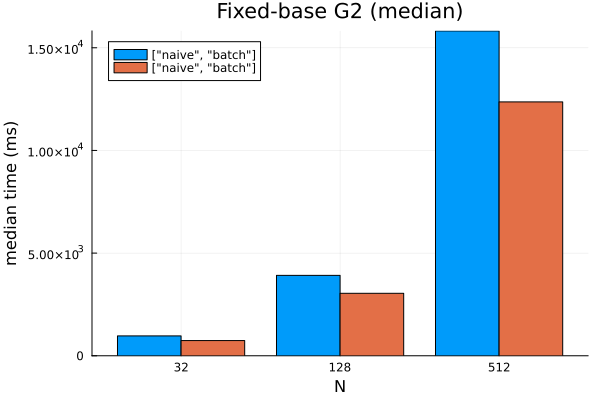
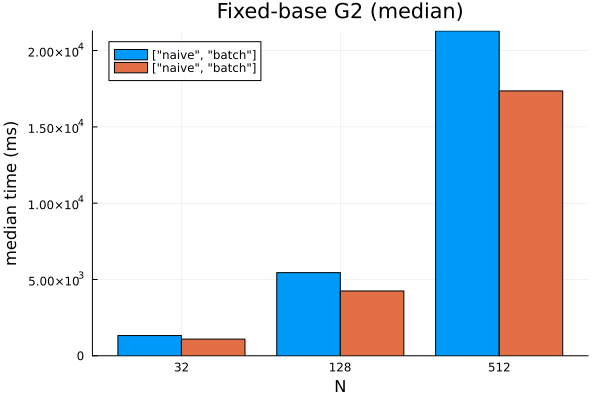
benchmarks: capture baseline results and plots

diff --git a/benchmarks/README.md b/benchmarks/README.md
@@ -2,7 +2,7 @@
 
 This directory contains a self-contained BenchmarkTools environment and two scripts:
 
-- `run.jl` — runs a suite of microbenchmarks and saves a JSON summary
+- `run.jl` — runs a suite of microbenchmarks and end-to-end timings, saving a JSON summary
 - `plot.jl` — reads the latest (or given) JSON and renders comparison plots
 
 ## What’s Measured
@@ -13,18 +13,33 @@ This directory contains a self-contained BenchmarkTools environment and two scri
 - Variable-base MSM (prover hot path)
   - `multi_scalar_mul` (MSM) vs naive accumulation for N bases/scalars
 - Batch normalization
-  - `batch_to_affine!` vs per-point `to_affine` for N points
+  - `batch_to_affine!` vs per-point `to_affine` for N points, with fresh projective inputs per sample
+- Pairing engine
+  - Sequential accumulation of N pairings vs `pairing_batch`
+  - Breakdown of single pairing into `miller_loop` and `final_exponentiation`
+- Groth16 pipeline (sum-of-products example circuit)
+  - `r1cs_to_qap`, `setup_full`, `prove_full`, `verify_full`
+  - Prepared verifier helpers (`prepare_verifying_key`, `prepare_inputs`, `verify_with_prepared`)
 
-Each benchmark runs at sizes N ∈ {32, 128, 512}. Results are printed with min/median/mean and memory, and a JSON with med/min timings is saved to `benchmarks/results_YYYY-mm-dd_HHMMSS.json`.
+Microbenchmarks run at sizes N ∈ {32, 128, 512}. Results are printed with min/median/mean and memory, and a JSON summary is saved to `benchmarks/results_YYYY-mm-dd_HHMMSS.json`. Each JSON entry records:
 
-The plots below (generated by `plot.jl`) compare median timings for each category:
+- `min_pretty` / `median_pretty`: original `TrialEstimate(...)` strings
+- `min_seconds` / `median_seconds`: numeric timings in seconds (for plotting / baselines)
+- `memory_bytes`: peak allocation during the trial
 
-- Fixed-base G1: `fixed_g1.png`
-- Fixed-base G2: `fixed_g2.png`
-- MSM G1: `msm_g1.png`
-- MSM G2: `msm_g2.png`
-- Batch norm G1: `norm_g1.png`
-- Batch norm G2: `norm_g2.png`
+`plot.jl` produces the following visual comparisons (all using median timings):
+
+- Microbenchmarks: `fixed_g1.png`, `fixed_g2.png`, `msm_g1.png`, `msm_g2.png`, `norm_g1.png`, `norm_g2.png`
+- Pairing comparisons: `pairing.png` (sequential vs batch), `pairing_ops.png` (miller loop / final exponent)
+- Groth16 pipeline: `groth16.png`
+
+## Baseline 2025-09-23
+
+- JSON summary: `results_2025-09-23_204214.json`
+- Environment details: `results_2025-09-23_204214_env.md`
+- Host: AMD Ryzen AI 9 HX 370 (24 threads) on Linux 6.16.7-arch1-1, Julia 1.11.7 (default thread count)
+
+### Plots
 
 ![fixed_g1](./fixed_g1.png)
 ![fixed_g2](./fixed_g2.png)
@@ -32,6 +47,52 @@ The plots below (generated by `plot.jl`) compare median timings for each categor
 ![msm_g2](./msm_g2.png)
 ![norm_g1](./norm_g1.png)
 ![norm_g2](./norm_g2.png)
+![pairing](./pairing.png)
+![pairing_ops](./pairing_ops.png)
+![groth16](./groth16.png)
+
+| Benchmark | N | naive median (s) | optimised median (s) |
+| --- | --- | --- | --- |
+| Fixed-base G1 (`scalar_mul` vs `batch_mul`) | 32 | 0.190 | 0.167 |
+|  | 128 | 0.740 | 0.544 |
+|  | 512 | 3.050 | 2.332 |
+| Fixed-base G2 | 32 | 1.325 | 1.094 |
+|  | 128 | 5.451 | 4.247 |
+|  | 512 | 21.292 | 17.357 |
+| Variable-base MSM G1 | 32 | 0.194 | 0.049 |
+|  | 128 | 0.763 | 0.268 |
+|  | 512 | 2.858 | 1.068 |
+| Variable-base MSM G2 | 32 | 1.299 | 0.404 |
+|  | 128 | 5.331 | 1.607 |
+|  | 512 | 20.656 | 6.096 |
+
+| Batch normalisation | N | per-point median (s) | batch median (s) |
+| --- | --- | --- | --- |
+| G1 | 32 | 0.000095 | 0.000106 |
+|  | 128 | 0.000660 | 0.000366 |
+|  | 512 | 0.001741 | 0.001381 |
+| G2 | 32 | 0.000517 | 0.000576 |
+|  | 128 | 0.001956 | 0.002174 |
+|  | 512 | 0.007511 | 0.008093 |
+
+| Pairings | Batch | sequential median (s) | batch median (s) |
+| --- | --- | --- | --- |
+| Accumulate e(P,Q) | 1 | 0.084 | 0.085 |
+|  | 4 | 0.398 | 0.231 |
+|  | 16 | 1.560 | 0.695 |
+| Single pairing | - | 0.083 | - |
+| Miller loop | - | 0.025 | - |
+| Final exponentiation | - | 0.038 | - |
+
+| Groth16 pipeline (sum-of-products circuit) | median (s) |
+| --- | --- |
+| `r1cs_to_qap` | 0.00068 |
+| `setup_full` | 0.185 |
+| `prove_full` | 0.0083 |
+| `verify_full` | 0.453 |
+| `prepare_verifying_key` | 0.086 |
+| `prepare_inputs` | 0.00037 |
+| `verify_with_prepared` | 0.224 |
 
 ## Usage
 
@@ -63,8 +124,7 @@ julia --project=benchmarks benchmarks/plot.jl results_2025-09-10_145900.json
 
 ## Notes
 
-- BenchmarkTools excludes JIT compilation after the first execution. We also run an explicit warmup before timing to avoid first-sample JIT.
+- BenchmarkTools excludes JIT compilation after the first execution. We also run explicit warmups before timing to avoid first-sample JIT.
 - Fixed-base timings are split between table build (one-time cost per base) and `batch_mul` (per vector). In setup we build once and reuse across A/B/C/H/L/IC.
 - Consider fixing `JULIA_NUM_THREADS` when comparing runs; record CPU/machine info for fair comparisons.
-- The suite currently focuses on microbenchmarks. We plan to add end-to-end timings (setup_full/prove_full/verify_full) to track user-visible performance as optimizations roll in.
-
+- JSON now contains numeric fields in seconds for easier downstream processing while keeping the human-readable `TrialEstimate` strings.

diff --git a/benchmarks/results_2025-09-23_204214_env.md b/benchmarks/results_2025-09-23_204214_env.md
@@ -1,0 +1,61 @@
+# Benchmark Environment — results_2025-09-23_204214.json
+
+- Date: 2025-09-23
+- Machine: AMD Ryzen AI 9 HX 370 w/ Radeon 890M (12 cores / 24 threads)
+- OS: Linux 6.16.7-arch1-1 #1 SMP PREEMPT_DYNAMIC Thu, 11 Sep 2025 17:42:36 +0000
+- CPU flags: AVX2, AVX512, FMA, SHA, etc. (see lscpu dump below for full list)
+- Julia: 1.11.7 (reported by `benchmarks/run.jl`)
+- JULIA_NUM_THREADS: (default Julia threads on this system — please note if you set it explicitly)
+- Benchmark project: `Groth.jl/benchmarks` (branch `feat/dispatch-roadmap`)
+- Notes: Qt warned about `kvantum` style when rendering plots; output images still generated.
+
+## Raw `lscpu` output
+
+```
+Architecture:                            x86_64
+CPU op-mode(s):                          32-bit, 64-bit
+Address sizes:                           48 bits physical, 48 bits virtual
+Byte Order:                              Little Endian
+CPU(s):                                  24
+On-line CPU(s) list:                     0-23
+Vendor ID:                               AuthenticAMD
+Model name:                              AMD Ryzen AI 9 HX 370 w/ Radeon 890M
+CPU family:                              26
+Model:                                   36
+Thread(s) per core:                      2
+Core(s) per socket:                      12
+Socket(s):                               1
+Stepping:                                0
+Frequency boost:                         enabled
+CPU(s) scaling MHz:                      51%
+CPU max MHz:                             5157.8950
+CPU min MHz:                             605.2640
+BogoMIPS:                                3992.41
+Flags:                                   fpu vme de pse tsc msr pae mce cx8 apic sep mtrr pge mca cmov pat pse36 clflush mmx fxsr sse sse2 ht syscall nx mmxext fxsr_opt pdpe1gb rdtscp lm constant_tsc rep_good amd_lbr_v2 nopl xtopology nonstop_tsc cpuid extd_apicid aperfmperf rapl pni pclmulqdq monitor ssse3 fma cx16 sse4_1 sse4_2 movbe popcnt aes xsave avx f16c rdrand lahf_lm cmp_legacy svm extapic cr8_legacy abm sse4a misalignsse 3dnowprefetch osvw ibs skinit wdt tce topoext perfctr_core perfctr_nb bpext perfctr_llc mwaitx cpb cat_l3 cdp_l3 hw_pstate ssbd mba perfmon_v2 ibrs ibpb stibp ibrs_enhanced vmmcall fsgsbase tsc_adjust bmi1 avx2 smep bmi2 erms invpcid cqm rdt_a avx512f avx512dq rdseed adx smap avx512ifma clflushopt clwb avx512cd sha_ni avx512bw avx512vl xsaveopt xsavec xgetbv1 xsaves cqm_llc cqm_occup_llc cqm_mbm_total cqm_mbm_local user_shstk avx_vnni avx512_bf16 clzero irperf xsaveerptr rdpru wbnoinvd cppc arat npt lbrv svm_lock nrip_save tsc_scale vmcb_clean flushbyasid decodeassists pausefilter pfthreshold avic v_vmsave_vmload vgif x2avic v_spec_ctrl vnmi avx512vbmi umip pku ospke avx512_vbmi2 gfni vaes vpclmulqdq avx512_vnni avx512_bitalg avx512_vpopcntdq rdpid bus_lock_detect movdiri movdir64b overflow_recov succor smca fsrm avx512_vp2intersect flush_l1d amd_lbr_pmc_freeze
+Virtualization:                          AMD-V
+L1d cache:                               576 KiB (12 instances)
+L1i cache:                               384 KiB (12 instances)
+L2 cache:                                12 MiB (12 instances)
+L3 cache:                                24 MiB (2 instances)
+NUMA node(s):                            1
+NUMA node0 CPU(s):                       0-23
+Vulnerability Gather data sampling:      Not affected
+Vulnerability Ghostwrite:                Not affected
+Vulnerability Indirect target selection: Not affected
+Vulnerability Itlb multihit:             Not affected
+Vulnerability L1tf:                      Not affected
+Vulnerability Mds:                       Not affected
+Vulnerability Meltdown:                  Not affected
+Vulnerability Mmio stale data:           Not affected
+Vulnerability Old microcode:             Not affected
+Vulnerability Reg file data sampling:    Not affected
+Vulnerability Retbleed:                  Not affected
+Vulnerability Spec rstack overflow:      Mitigation; IBPB on VMEXIT only
+Vulnerability Spec store bypass:         Mitigation; Speculative Store Bypass disabled via prctl
+Vulnerability Spectre v1:                Mitigation; usercopy/swapgs barriers and __user pointer sanitization
+Vulnerability Spectre v2:                Mitigation; Enhanced / Automatic IBRS; IBPB conditional; STIBP always-on; PBRSB-eIBRS Not affected; BHI Not affected
+Vulnerability Srbds:                     Not affected
+Vulnerability Tsa:                       Not affected
+Vulnerability Tsx async abort:           Not affected
+Vulnerability Vmscape:                   Mitigation; IBPB on VMEXIT
+```
